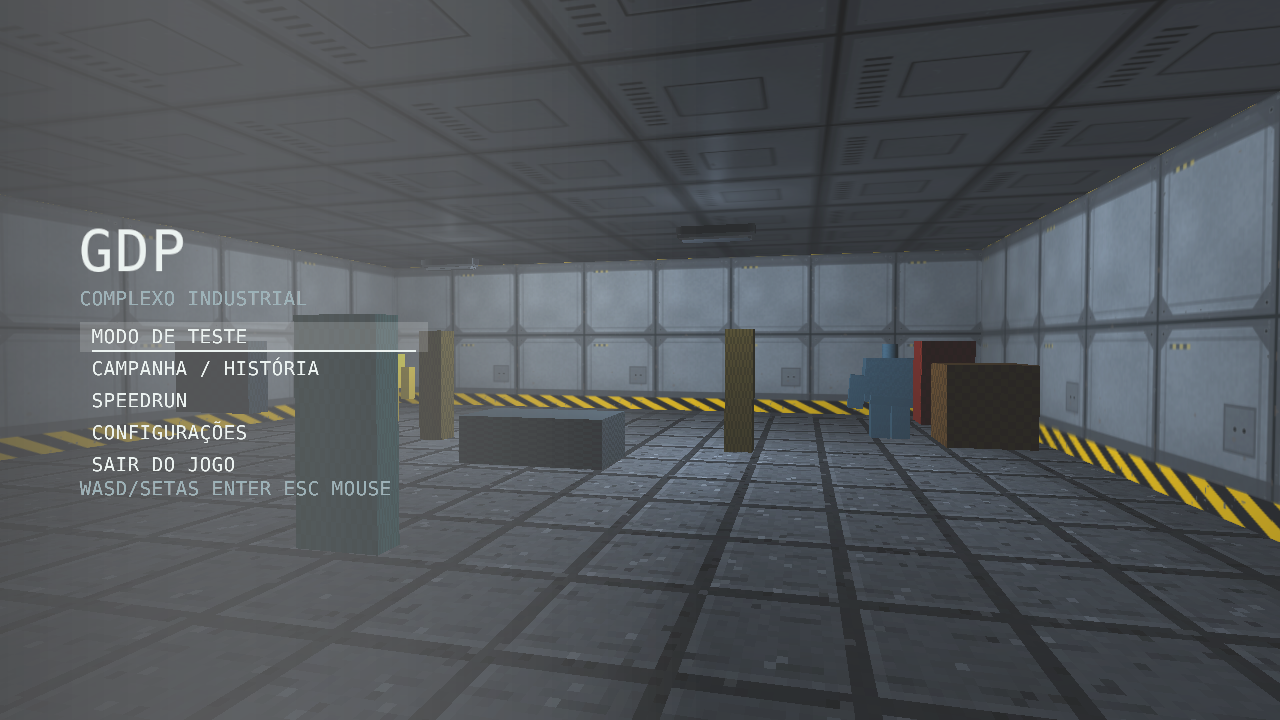
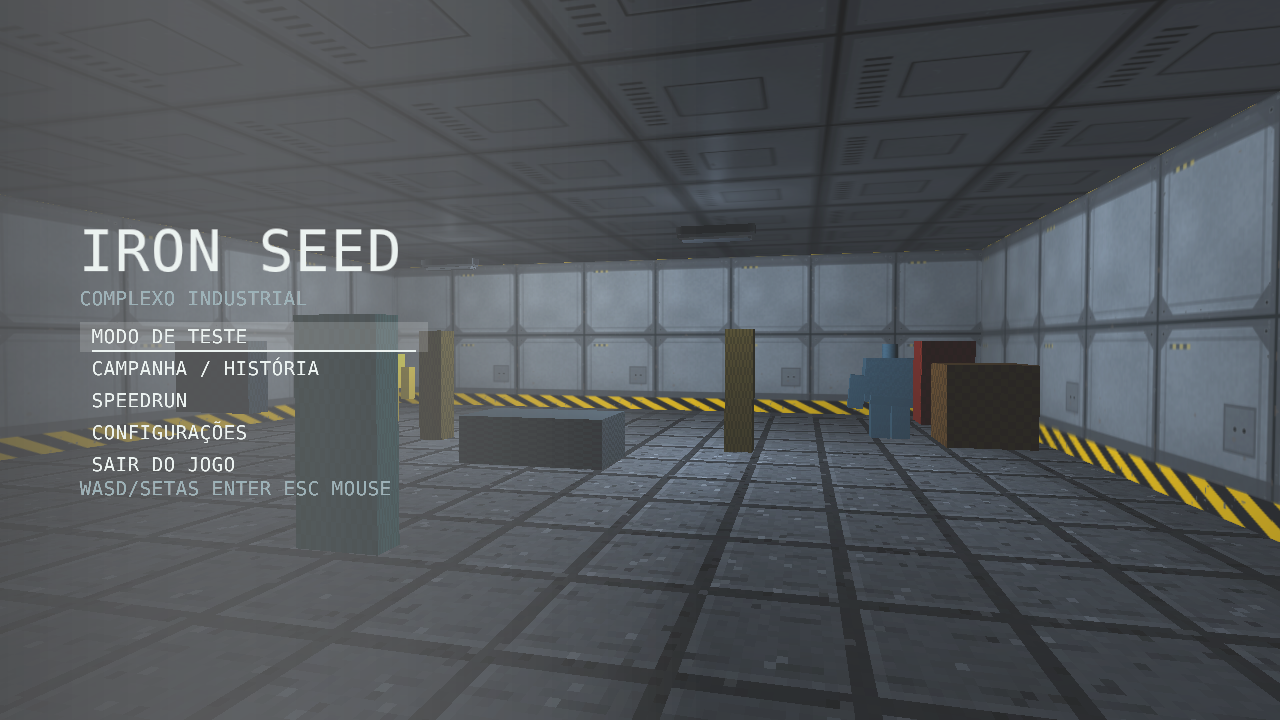
feat: display Iron Seed branding on the title menu

Changed region(s): [[0.0625, 0.3056, 0.3125, 0.3972]]

diff --git a/tests/test_frontend.cpp b/tests/test_frontend.cpp
@@ -93,6 +93,9 @@ void layoutTests() {
     MenuFlowState state;
     std::array<CampaignSlotInfo, 3> slots{};
     auto view = makeMenuView(state, slots, {}, settings, true);
+    expect(view.title == "IRON SEED"
+        && makeMenuView(state, slots, {}, RuntimeSettings{}, true).title == "IRON SEED",
+        "Iron Seed branding is identical in Portuguese and English");
     expect(view.rows[0].text == "MODO DE TESTE" && view.rows[3].text == "CONFIGURAÇÕES", "all title labels use selected language");
     expect(activateMenu(state, view, slots) == MenuCommand::TestMode, "translated Test Mode still launches typed command");
     state.selection = 1U; (void)activateMenu(state, view, slots);
@@ -108,6 +111,13 @@ void layoutTests() {
         "right arrow restores Portuguese immediately");
     expect(languageForName("pt-BR") == Language::PortugueseBrazil && !languageForName("xx"), "language serialization identifiers are stable");
     using namespace gdp::game::visual;
+    for (const auto dimensions : {std::array{1280, 720}, std::array{960, 540},
+             std::array{640, 360}, std::array{320, 200}}) {
+        const auto root = makeListMenuLayout(dimensions[0], dimensions[1], 5U, true);
+        expect(static_cast<int>(uiTextLength("IRON SEED")) * 6 * 3 * root.scale
+            <= root.panel.width - 16 * root.scale,
+            "complete Iron Seed title fits without truncating or expanding the menu");
+    }
     for (const auto dimensions : {std::array{1280, 720}, std::array{1920, 1080}, std::array{2560, 1080}}) {
         const auto root = makeListMenuLayout(dimensions[0], dimensions[1], 5U, true);
         expect(root.rows[0].width == 348 && root.rows[0].height == 30,

diff --git a/src/game/visual/GdpRenderer.cpp b/src/game/visual/GdpRenderer.cpp
@@ -2702,8 +2702,8 @@ bool GdpRenderer::render(
             layout.panel.y, railWidth, layout.panel.height, uiTheme.panelBorder);
         drawMenuPanel(layout.panel, scale, cyanColor);
 
-        constexpr std::string_view title = "GDP";
-        constexpr std::string_view subtitle = "GENERATED DUNGEON PROTOCOL";
+        constexpr std::string_view title = "IRON SEED";
+        constexpr std::string_view subtitle = "INDUSTRIAL COMPLEX";
         drawBitmapText((width - bitmapTextWidth(title, 3 * scale)) / 2,
             layout.panel.y + layout.panel.height - (26 * scale),
             3 * scale, title, cyanColor);

diff --git a/src/game/MenuFlow.cpp b/src/game/MenuFlow.cpp
@@ -18,7 +18,7 @@ MenuView makeMenuView(const MenuFlowState& s, const std::array<CampaignSlotInfo,
     };
     switch (s.page) {
     case MenuPage::Root:
-        view.title = "GDP"; view.subtitle = "INDUSTRIAL COMPLEX";
+        view.title = "IRON SEED"; view.subtitle = "INDUSTRIAL COMPLEX";
         if (testMode) { row("TEST MODE"); view.rows.back().command = MenuCommand::TestMode; }
         row("CAMPAIGN / STORY"); view.rows.back().destination = MenuPage::CampaignSlots;
         row("SPEEDRUN"); view.rows.back().destination = MenuPage::Speedrun;

diff --git a/07_interface/menus_and_settings.md b/07_interface/menus_and_settings.md
@@ -9,6 +9,13 @@ referência da direção Tático: `visual/proposals/interface_visual_v3.html`.
 Logo claro, texto branco/cinza, seleção por sublinhado e fundo translúcido.
 Não há molduras ornamentais nem cartão grande de descrição à direita.
 O título fica à esquerda nas telas largas; submenus ficam centralizados.
+O nome exibido no título é **IRON SEED**, em ambos os idiomas. Os identificadores
+técnicos GDP (executável, diretório de preferências e saves) permanecem iguais;
+esta mudança de nome visual não exige migração nem altera a gameplay.
+Validação do nome: modelo, navegação SDL e pixels OpenGL passaram (3/3,
+Release); o título completo cabe em 1280×720, 960×540, 640×360 e 320×200.
+Capturas em `visual/validation/interface_ptbr_title_1280x720.png` e
+`visual/validation/iron_seed_title_320x200.png` registram a revisão.
 
 Em 1280×720, cada linha do título mede **348×30 px**, antes 608×50 px.
 A escala da tipografia/linhas é limitada a 2× também em Full HD/ultrawide;

diff --git a/README.md b/README.md
@@ -38,6 +38,8 @@ especializados das pastas numeradas.
 
 - **Menus atuais:** `TEST MODE` (arena dedicada de desenvolvimento),
   `CAMPAIGN / STORY`, `SPEEDRUN`, `SETTINGS` e `QUIT GAME`.
+  O título do menu inicial apresenta o nome **Iron Seed**; o executável e
+  os caminhos de saves continuam com os identificadores técnicos GDP.
   Campanha: 10 andares, três slots independentes, Easy/Normal/Hard, checkpoint
   no início do andar e armas adicionais aleatórias nas salas.
   Speedrun: Hard obrigatório e top 10 local. Configurações separadas em
